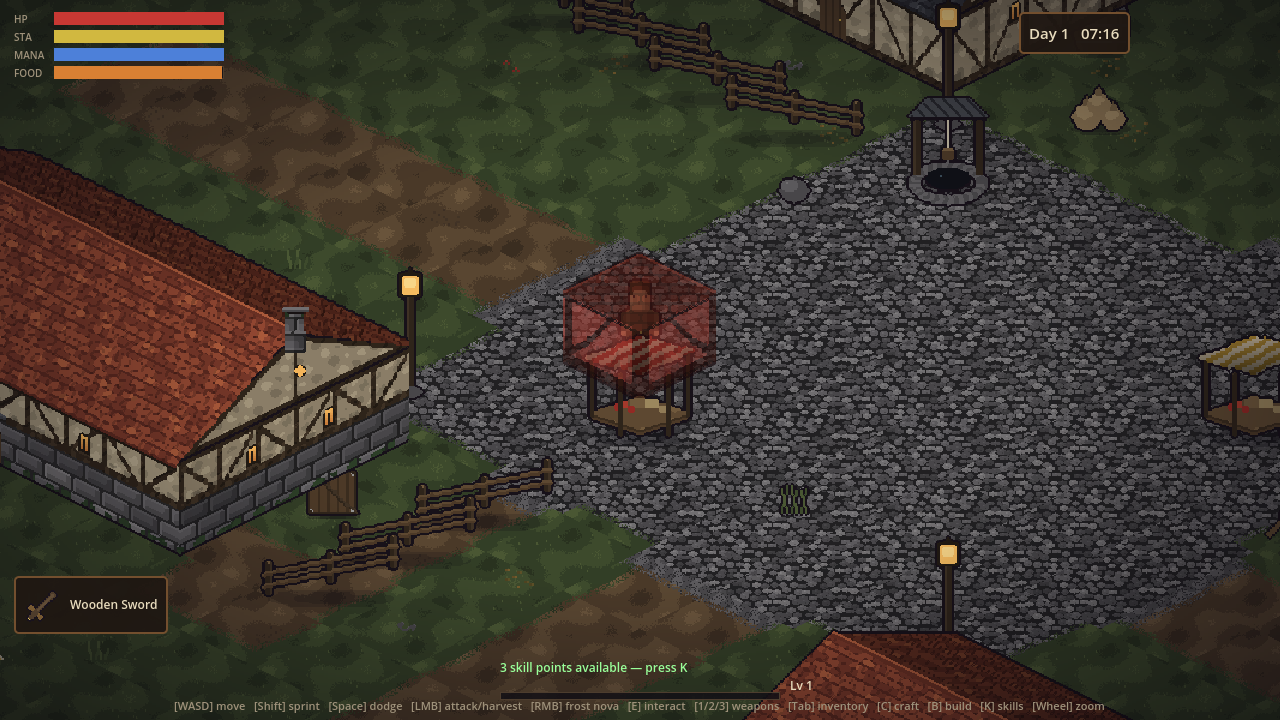
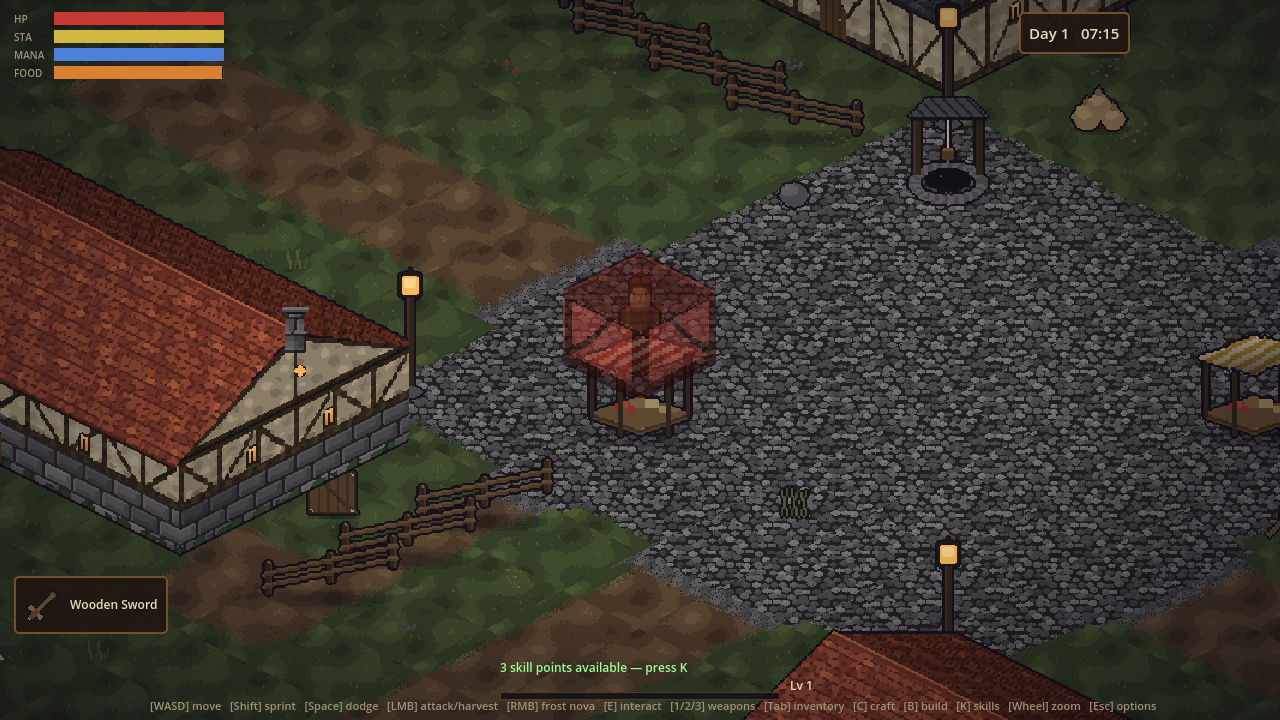
Sandbox options menu and PZ-style population model
Options (Esc, pauses the game, persisted to user://settings.cfg):
- Zombie population (Sparse/Normal/Heavy/Horde), speed (Shamblers/
  Normal/Feral), strength, senses (affects sight and noise hearing),
  wound & bleeding chance, loot abundance, XP rate, and day length —
  all applied live, plus a Restart World button

Population model:
- World population grows ~6 zombies/day from 10 toward a peak of 60
  (scaled by the population setting, hard cap 90, +40% at night)
- After the peak, respawns slow from one every 2.5s to one every 9s:
  clearing an area now stays cleared for a meaningful while
- Density zones: 50% of spawns inside the walled city (more brutes),
  25% around the town, 25% scattered wilderness stragglers; spawns
  never appear within 280px of the player

https://claude.ai/code/session_01QWSZy1g7crafKAx86Grg4Q

Changed region(s): [[0.125, 0.9778, 0.9062, 1.0], [0.5938, 0.2444, 0.6562, 0.3056], [0.5938, 0.6722, 0.625, 0.7028]]

diff --git a/medieval-zombie-survival/README.md b/medieval-zombie-survival/README.md
@@ -39,7 +39,7 @@ horde grows larger and more aggressive every day.
 | `B` | Build menu |
 | `K` | Skill trees |
 | Mouse wheel | Zoom in / out |
-| `Esc` | Close panels / cancel build mode |
+| `Esc` | Options menu (pauses) / close panels / cancel build mode |
 
 ### Survival loop
 
@@ -75,7 +75,20 @@ horde grows larger and more aggressive every day.
 | Runner | Fast and twitchy; mostly prowls at night |
 | Brute | Slow, huge health pool, demolishes structures |
 
-At night zombie aggro range doubles and spawn counts scale with the day number.
+### Population
+
+The horde follows a Project Zomboid-style population model: the world's zombie
+count grows every day until it peaks (around day 9 on Normal), after which the
+dead **regenerate slowly** — clearing a district keeps it clear for a while.
+Zombies are densest inside the walled city, common around the town, and sparse
+in the wilderness. At night the population swells, senses sharpen, and runners
+come out.
+
+### Sandbox options (`Esc`)
+
+Every difficulty knob is adjustable in-game and saved between sessions:
+zombie population / speed / strength / senses, wound & bleeding chance, loot
+abundance, XP rate, and day length.
 
 ### Skill trees
 
